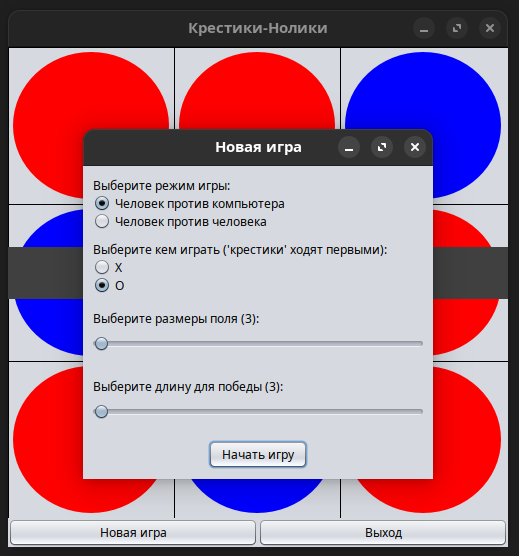
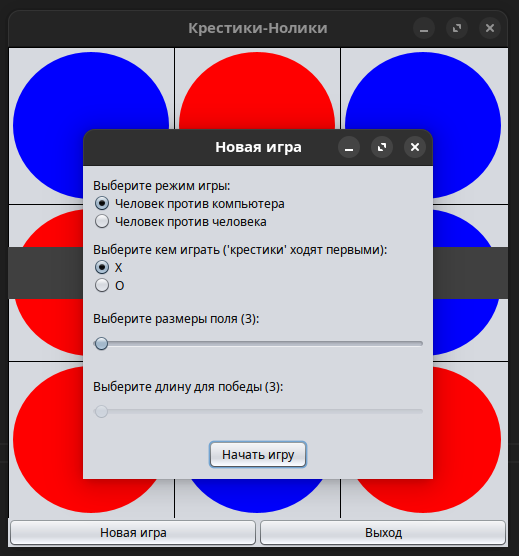
Added fixes & improvements

diff --git a/src/gui/SettingsWindow.java b/src/gui/SettingsWindow.java
@@ -4,7 +4,6 @@ import java.awt.Dimension;
 import java.awt.GridLayout;
 import java.awt.HeadlessException;
 import java.awt.event.ActionEvent;
-import java.awt.event.ActionListener;
 
 import javax.swing.BorderFactory;
 import javax.swing.Box;
@@ -18,11 +17,15 @@ import javax.swing.JPanel;
 import javax.swing.JRadioButton;
 import javax.swing.JSlider;
 import javax.swing.event.ChangeEvent;
-import javax.swing.event.ChangeListener;
 
 import domain.Player;
 
 class SettingsWindow extends JFrame {
+
+	private static final int FIELD_DIM_DEFAULT = 3;
+	private static final int FIELD_DIM_MAX = 10;
+	private static final int MODE_DEFAULT = 0;
+	private static final Player HUMAN_PLAYER_DEFAULT = Player.X;
 
 	private static final String TITLE_STR = "Новая игра";
 	private static final String MODE_STR = "Выберите режим игры:";
@@ -41,10 +44,10 @@ class SettingsWindow extends JFrame {
 	private static final int PADDING = 10;
 	private static final Dimension PADDING_DIM = new Dimension(PADDING, PADDING);
 
-	private int mode = 0;
-	private Player humanPlayer = Player.X;
-	private int fieldDimension = 3;
-	private int winLength = 3;
+	private int mode = MODE_DEFAULT;
+	private Player humanPlayer = HUMAN_PLAYER_DEFAULT;
+	private int fieldDimension = FIELD_DIM_DEFAULT;
+	private int winLength = FIELD_DIM_DEFAULT;
 
 	// controls
 
@@ -57,18 +60,20 @@ class SettingsWindow extends JFrame {
 	private final JRadioButton radioHumanVsHuman = new JRadioButton(HUMAN_VS_HUMAN_STR);
 	private final JRadioButton radioX = new JRadioButton(X_STR);
 	private final JRadioButton radioO = new JRadioButton(O_STR);
-	private final JSlider sliderDim = new JSlider(3, 10);
-	private final JSlider sliderWinLen = new JSlider(3, 10);
+	private final JSlider sliderDim = new JSlider(FIELD_DIM_DEFAULT, FIELD_DIM_MAX);
+	private final JSlider sliderWinLen = new JSlider(FIELD_DIM_DEFAULT, FIELD_DIM_DEFAULT);
 	private final JButton buttonStart = new JButton(START_STR);
+
+	private final GameWindow gameWindow;
 
 	SettingsWindow(GameWindow gameWindow) {
 
 		super(TITLE_STR);
+		this.gameWindow = gameWindow;
 		setMinimumSize(new Dimension(WIDTH, HEIGHT));
 		setLocationRelativeTo(gameWindow);
 
 		initControls();
-		actualizeLabels();
 
 		var frameContainer = new JPanel();
 		frameContainer.setLayout(new BoxLayout(frameContainer, BoxLayout.PAGE_AXIS));
@@ -117,37 +122,12 @@ class SettingsWindow extends JFrame {
 		frameContainer.add(buttonStart);
 		super.pack();
 
-		buttonStart.addActionListener(new ActionListener() {
+		buttonStart.addActionListener(this::handleButtonStartPressed);
 
-			@Override
-			public void actionPerformed(ActionEvent e) {
-				if (mode != 0) {
-					try {
-						JOptionPane.showMessageDialog(SettingsWindow.this, UNSUPPORTED_STR);
-					} catch (HeadlessException ex) {
-						ex.printStackTrace();
-					}
-					return;
-				}
-				setVisible(false);
-				gameWindow.startNewGame(mode, humanPlayer, fieldDimension, fieldDimension, winLength);
-				// gameWindow.requestFocus();
-			}
-		});
-
-		var changeListener = new ChangeListener() {
-
-			@Override
-			public void stateChanged(ChangeEvent e) {
-				actualizeValues();
-				actualizeLabels();
-			}
-		};
-
-		radioHumanVsAi.addChangeListener(changeListener);
-		radioX.addChangeListener(changeListener);
-		sliderDim.addChangeListener(changeListener);
-		sliderWinLen.addChangeListener(changeListener);
+		radioHumanVsAi.addChangeListener(this::handleAControlStateChanged);
+		radioX.addChangeListener(this::handleAControlStateChanged);
+		sliderDim.addChangeListener(this::handleAControlStateChanged);
+		sliderWinLen.addChangeListener(this::handleAControlStateChanged);
 	}
 
 	private void initControls() {
@@ -155,6 +135,8 @@ class SettingsWindow extends JFrame {
 		radioX.setSelected(humanPlayer == Player.X);
 		sliderDim.setValue(fieldDimension);
 		sliderWinLen.setValue(winLength);
+		actualizeLabels();
+		actualizeSliders();
 	}
 
 	private void actualizeValues() {
@@ -168,5 +150,38 @@ class SettingsWindow extends JFrame {
 		labelDim.setText(String.format(DIM_FSTR, fieldDimension));
 		labelWinLen.setText(String.format(WINLEN_FSTR, winLength));
 		repaint();
+	}
+
+	private void actualizeSliders() {
+		var dimValue = sliderDim.getValue();
+		if (sliderWinLen.getValue() > dimValue) {
+			sliderWinLen.setValue(dimValue);
+		}
+		sliderWinLen.setMaximum(dimValue);
+		sliderWinLen.setEnabled(sliderWinLen.getMinimum() != sliderWinLen.getMaximum());
+	}
+
+	private void handleButtonStartPressed(ActionEvent e) {
+		if (mode != 0) {
+			try {
+				JOptionPane.showMessageDialog(SettingsWindow.this, UNSUPPORTED_STR);
+			} catch (HeadlessException ex) {
+				ex.printStackTrace();
+			}
+			return;
+		}
+		setVisible(false);
+		gameWindow.startNewGame(mode, humanPlayer, fieldDimension, fieldDimension, winLength);
+		// gameWindow.requestFocus();
+	}
+
+	public void handleAControlStateChanged(ChangeEvent e) {
+		actualizeValues();
+		if (e.getSource() instanceof JSlider slider) {
+			actualizeLabels();
+			if (slider == sliderDim) {
+				actualizeSliders();
+			}
+		}
 	}
 }

diff --git a/README.md b/README.md
@@ -1,12 +1,24 @@
 ## Java Swing: Графический интерфейс на примере игры Крестики-нолики.
 
-Компоновка окна настроек:
+### Изменения:
+
+* Логика игры и представление разделены: пакеты [domain](src/domain) и
+[gui](src/gui) соответственно.
+* Добавлена интерактивность компонентам окна `SettingsWindow`: отображение текущих
+значений слайдеров, зависимость диапазона слайдера от значения другого слайдера.
+* Обработчики событий компонентов и игры в окне `SettingsWindow` вынесены в отдельные
+методы класса окна вместо использования экземпляров анонимных классов слушателей.
+* Центрирование главного окна относительно экрана и окна настроек относительно
+главного.
+* Прочие улучшения...
+
+*Компоновка окна настроек:*
 
 ![Компоновка окна настроек 1](examples/ex-1.png)
 
 ![Компоновка окна настроек 1](examples/ex-2.png)
 
-Главное окно с игровым полем:
+*Главное окно с игровым полем:*
 
 ![Главное окно 1](examples/ex-3.png)
 
